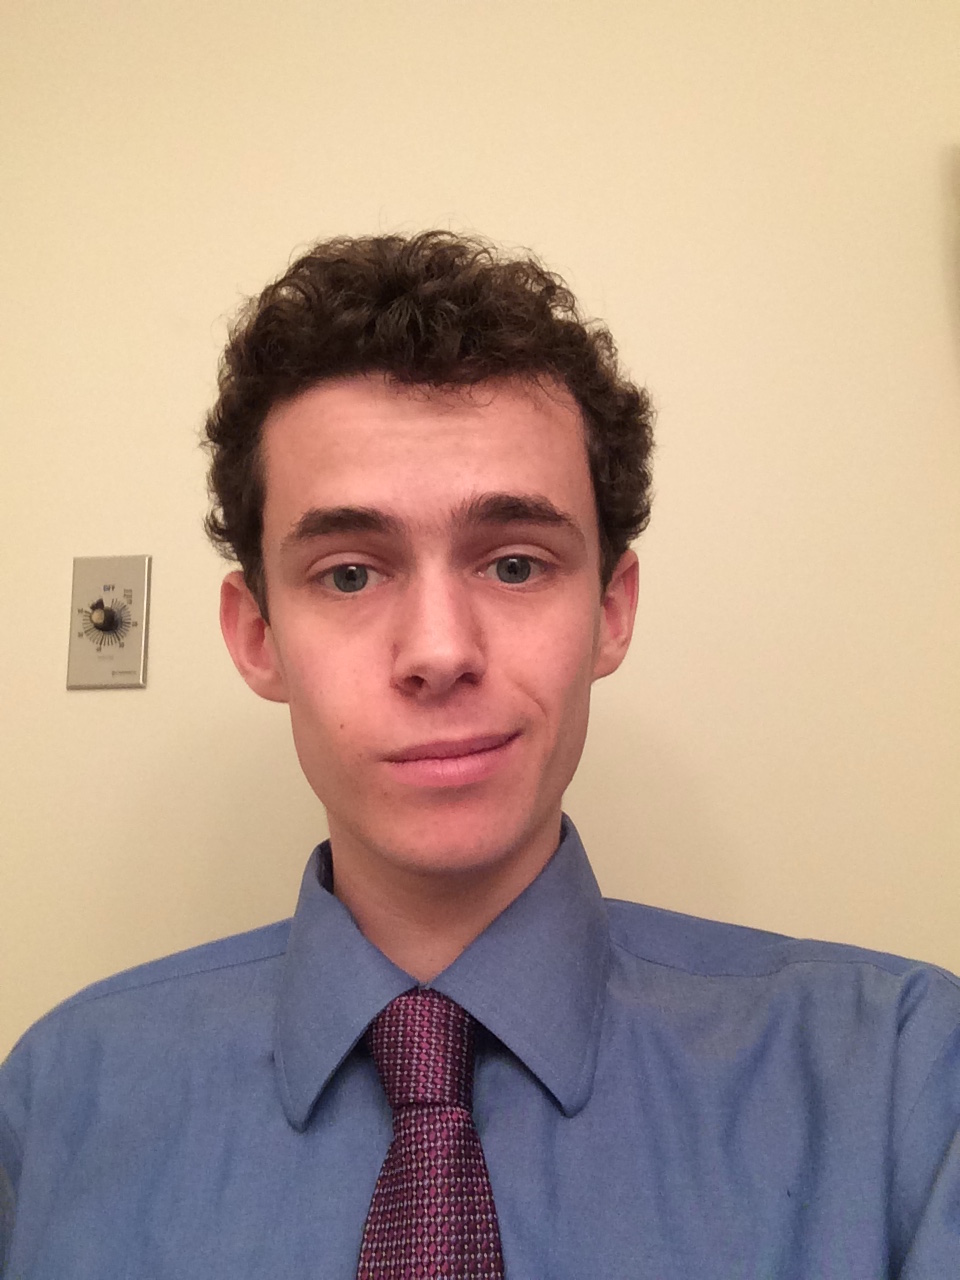
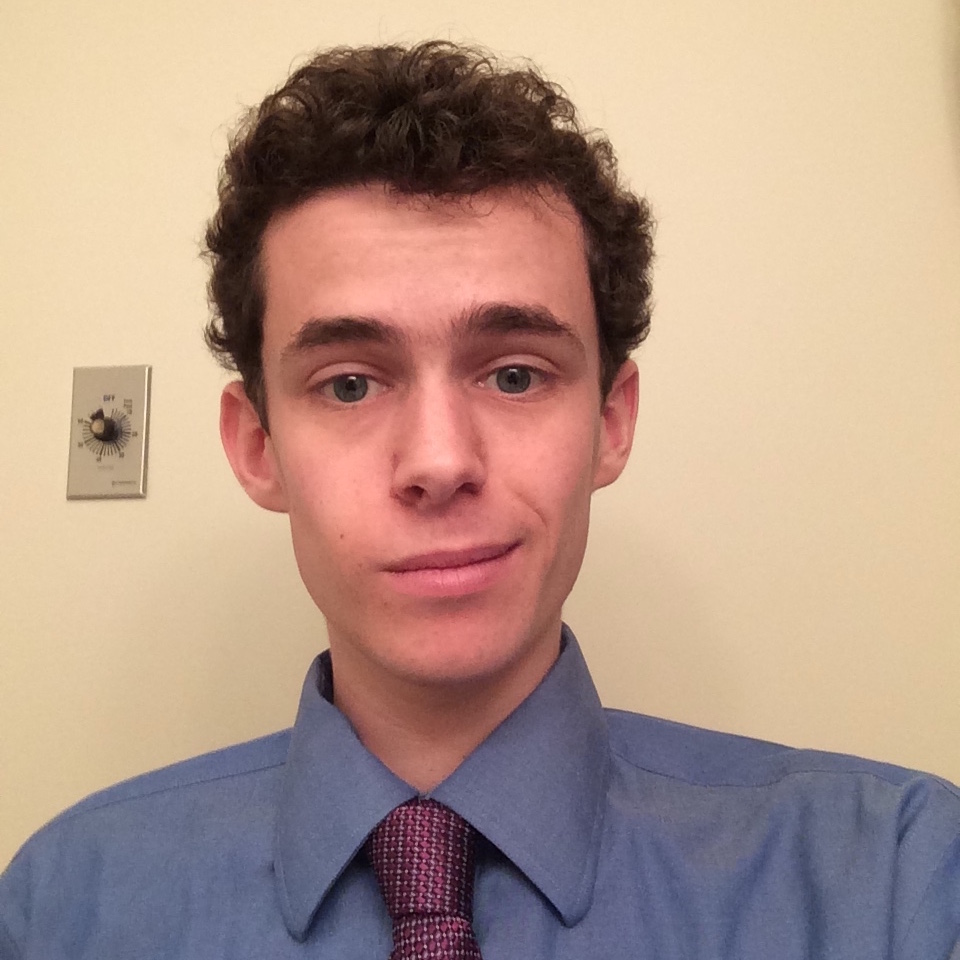
first finished draft of website

diff --git a/bio.html b/bio.html
@@ -1,8 +1,8 @@
-<! bio >
-
+<!DOCTYPE html>
 <html>
 
 <head>
+	<meta charset="UTF-8"> 
 	<title>Biography</title>
 	<link rel="stylesheet" type="text/css" href="style.css" />
 </head>
@@ -10,13 +10,15 @@
 
 <body>
 	<h2 class="top">About Nathan</h2>
-	<p>Insert Bio Here</p>
+	<p>	Nathan Foster is a sophomore at Tufts University majoring in physics and minoring in computer science. His interests include science, politics, computer science, and public policy. From Newton, Massachusetts, he has no idea where the future will take him and is excited to find out. 
+	</p>
 
 	<br><br><br><br>
 	<hr>
 	<a href="index.html">
 		<p>Return to Main Page</p>
 	</a>
+	<br>
 </body>
 
 

diff --git a/resume.html b/resume.html
@@ -1,8 +1,8 @@
-<! resume >
-
+<!DOCTYPE html>
 <html>
 
 <head>
+	<meta charset="UTF-8"> 
 	<title>Nathan Foster Resume</title>
 	<link rel="stylesheet" type="text/css" href="style.css" />
 </head>
@@ -10,10 +10,6 @@
 
 <body>
 	<h1 class="top">Nathan Foster</h1>
-
-	<h2>Profile</h2>
-		<p>Sophomore at Tufts University</p>
-		<p>Interests include science, politics, public policy, and computer science</p>
 
 	<h2>Education</h2>
 		<p>Tufts University class of 2018, Dean's List Fall 2014</p>
@@ -51,6 +47,7 @@
 	<a href="index.html">
 		<p>Return to Main Page</p>
 	</a>
+	<br>
 
 </body>
 

diff --git a/index.html b/index.html
@@ -1,8 +1,8 @@
-<! home page >
-
+<!DOCTYPE html>
 <html>
 
 <head>
+	<meta charset="UTF-8"> 
 	<title>Nathan's Portfolio</title>
 	<link rel="stylesheet" type="text/css" href="style.css" />
 	<link rel="stylesheet" type="text/css" href="index-style.css" />
@@ -11,7 +11,7 @@
 
 <body>
 	<h2 class="top">Nathan Foster</h2>
-	<img class="circle" src="image.jpeg" alt="Nathan" height="320" width="240"/>
+	<img class="circle" src="image.jpeg" alt="Nathan" height="320" width="320"/>
 	<p></p>
 	<a href="resume.html">
 		<p>Resume</p>

diff --git a/index-style.css b/index-style.css
@@ -1,11 +1,7 @@
 body {
-	background-image: none;
-}
-
-button {
-	text-align: center;
+	/*background-image: none;*/
 }
 
 .circle {
-	text-align: center;
+	border-radius: 100%;
 }
